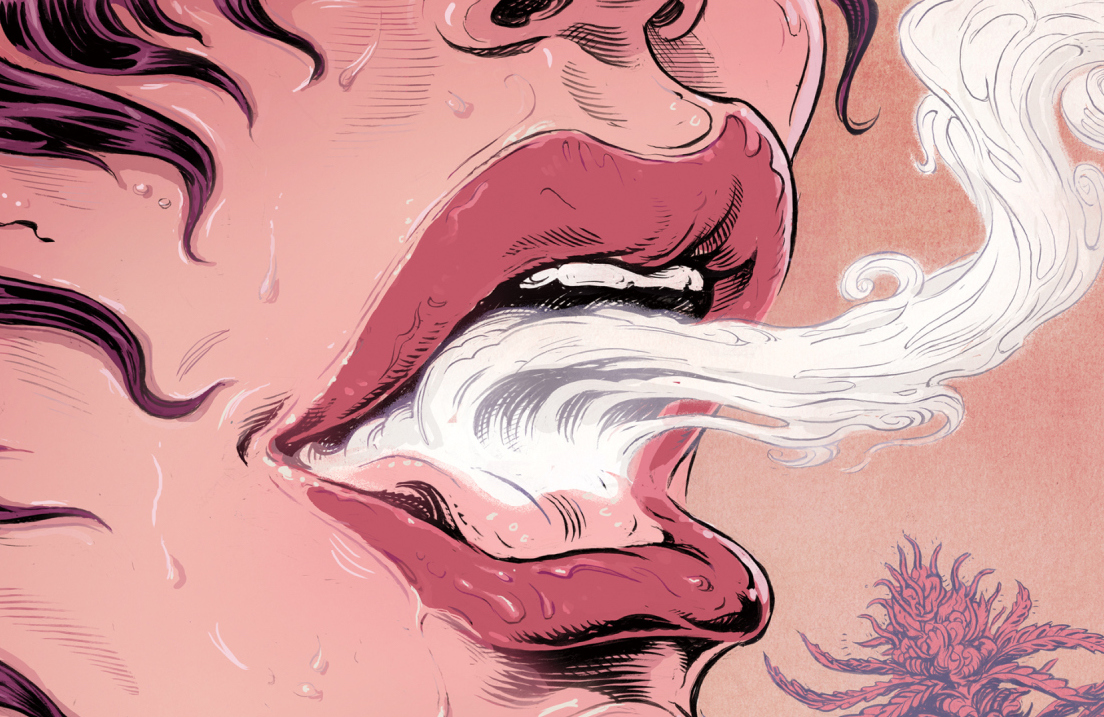
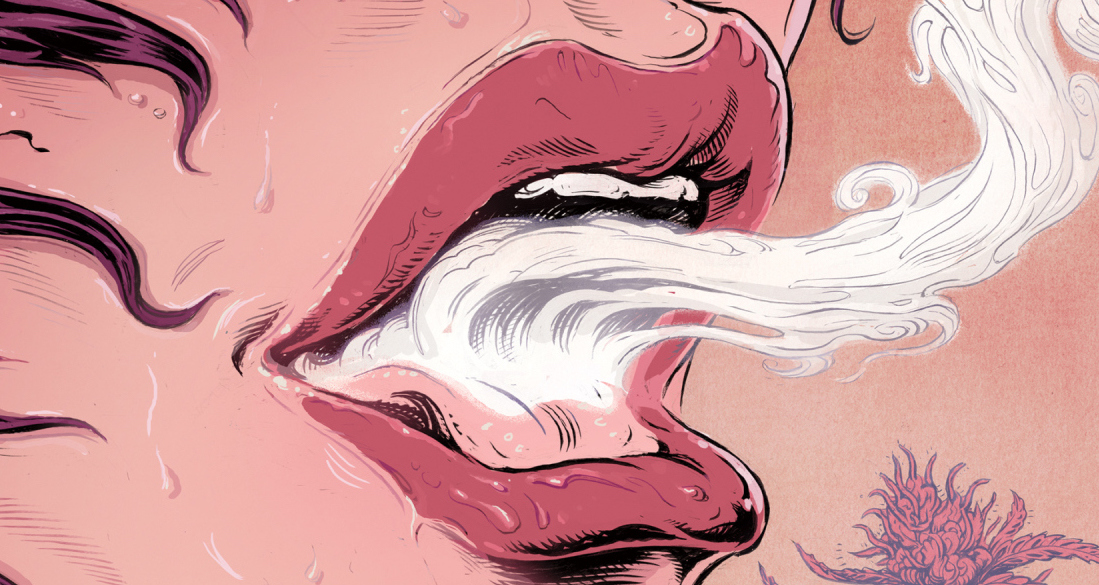
sexy blurs

diff --git a/src/components/hero.module.css b/src/components/hero.module.css
@@ -7,42 +7,41 @@
 }
 
 .heroImage { 
-  height: 61.8vh;
-  max-height: 400px;
+    /* Add the blur effect */
+    filter: blur(5px);
+    -webkit-filter: blur(5px);
+    margin: -5px -10px -10px -5px;
 }
+
 
 .heroDetails {
   position: absolute; 
   left: 50%;
-  top: 14%;
+  top: 27%;
   font-family: auto;
   transform: translate(-50%, 0);
   width: 100%;
+  font-size: 8vw;
+  font-weight: bold;
+  text-shadow:2px 2px plum;
 }
+
 
 @media(min-width: 470px) {
   .heroDetails {
-    top: 20%;
-  }
+    top: 23%;
+    font-weight: normal;
+    text-shadow:3px 3px plum;
+ }
 }
+
 .heroHeadline {
   margin: 0; 
-  font-size: 47px;
 }
 
-@media(min-width: 470px) {
-  .heroHeadline {
-     font-size: 77px;
-  }
+.heroWrapper {
+  overflow: hidden;
 }
-
-@media(min-width: 1000px) {
-  .heroHeadline {
-    font-size: 99px;
-  }
-}
-
-
 
 .heroTitle {
   margin: 0;

diff --git a/src/components/hero.js b/src/components/hero.js
@@ -4,10 +4,13 @@ import styles from './hero.module.css'
 
 export default () => (
   <div className={styles.hero}>
-    <img
-      src={sex}
-      alt="Hero"
-    />
+    <div className={styles.heroWrapper}>
+      <img
+        className={styles.heroImage}
+        src={sex}
+        alt="Hero"
+      ></img>
+    </div>
     <div className={styles.heroDetails}>
       <h3 className={styles.heroHeadline}>Weed Wāhine</h3>
     </div>

diff --git a/src/pages/index.module.css b/src/pages/index.module.css
@@ -7,12 +7,21 @@
   height: auto;
   font-size: 20px;
   overflow: hidden;
-  padding: 5% 15%;
+  padding: 5% 10%;
   font-family: sans-serif;
 }
 
+@media(min-width: 470px) {
+  .wrapper {
+    padding: 5% 15%;
+  }
+}
+
+
 h1 {
   font-size: 30px;
+  color: plum;
+  margin-top:0px;
 }
 
 
